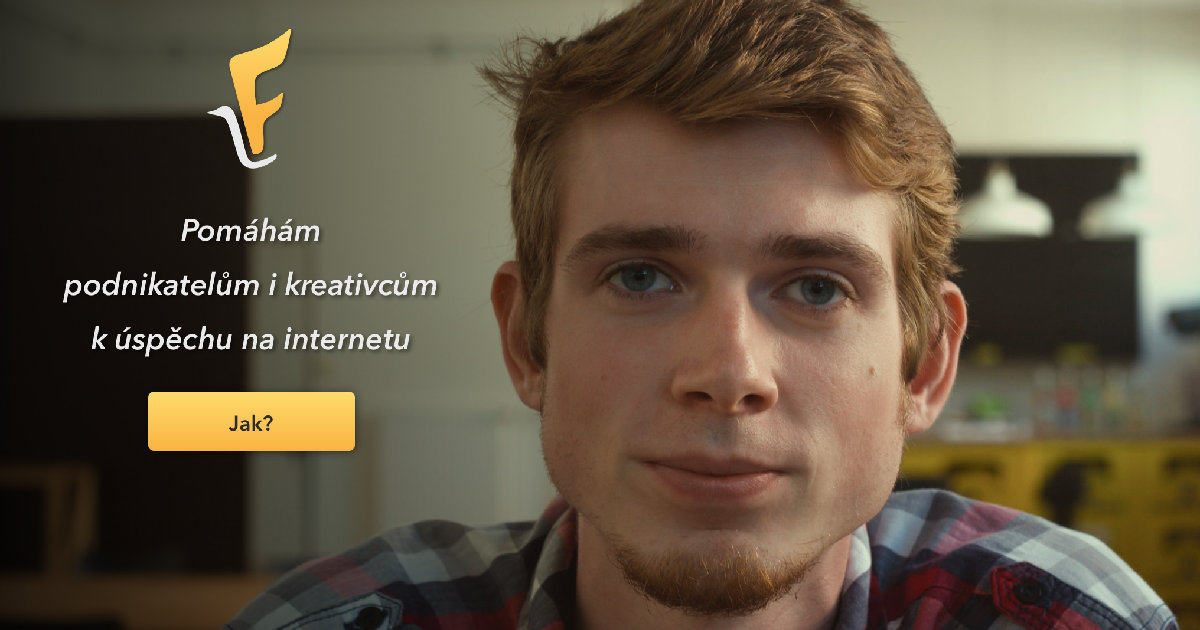
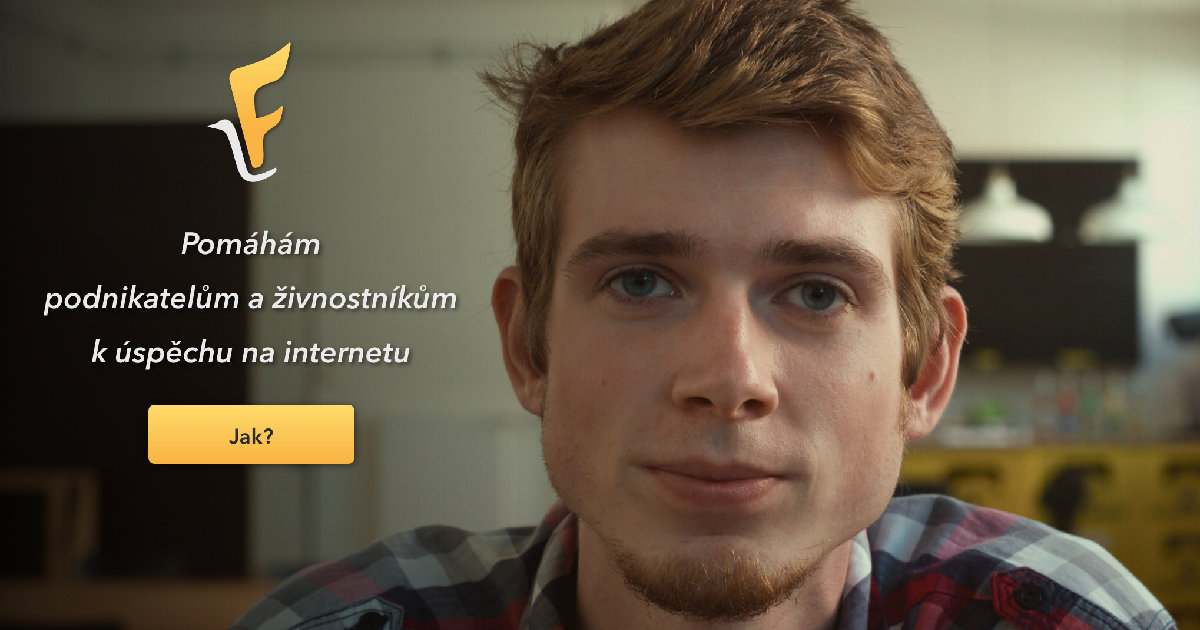
final-v2

diff --git a/index.html b/index.html
@@ -8,11 +8,11 @@
 
   <!-- seo meta -->
   <title>Lukáš Frei - Web designer a konzultant online marketingu</title>
-  <meta name="description" content="Pomáhám podnikatelům i kreativcům k úspěchu na internetu. Tvořím osobité webové stránky a pomáhám s online marketingem.">
+  <meta name="description" content="Pomáhám podnikatelům a živnostníkům k úspěchu na internetu. Tvořím osobité webové stránky a pomáhám s online marketingem.">
 
   <!-- open graph -->
   <meta property="og:title" content="Lukáš Frei - Web designer a konzultant online marketingu" />
-  <meta property="og:description" content="Pomáhám podnikatelům i kreativcům k úspěchu na internetu. Tvořím osobité webové stránky a pomáhám s online marketingem." />
+  <meta property="og:description" content="Pomáhám podnikatelům a živnostníkům k úspěchu na internetu. Tvořím osobité webové stránky a pomáhám s online marketingem." />
   <meta property="og:type" content="website" />
   <meta property="og:url" content="http://web-agent.cz" />
   <meta property="og:image" content="http://web-agent.cz/images/foto-hero-og.jpg" />
@@ -87,7 +87,7 @@
 
     <div class="title">
       <img src="images/logo.svg" alt="">
-      <h2>Pomáhám<br> podnikatelům i kreativcům<br> k úspěchu na internetu</h1>
+      <h2>Pomáhám<br> podnikatelům a živnostníkům<br> k úspěchu na internetu</h1>
       <a class="btn btn-uvod" href="#sluzby">Jak?</a>
     </div>
 
@@ -102,7 +102,7 @@
       <a href="#" class="sluzby-strategie">Online strategie</a>
     </div>
     <div id="sluzby-uvod">
-      <p><span>Jsem</span> <strong>webový designer a konzultant</strong> na volné noze. Specializuji se na tvorbu internetové identity pro podnikatele i kreativce. Tvořím <a href="#" class="sluzby-web">osobité weby</a> a pomáhám s <strong>online marketingem</strong>.</p>
+      <p><span>Jsem</span> <strong>webový designer a konzultant</strong> na volné noze. Specializuji se na tvorbu internetové identity pro podnikatele a živnostníky. Tvořím <a href="#" class="sluzby-web">osobité weby</a> a pomáhám s <strong>online marketingem</strong>.</p>
       <p><span>Věřím</span>, že pro efektivní prezentaci na internetu nepotřebujete nutně tým specialistů ani desetitisíce korun. Dokážu se <a class="sluzby-reseni" href="#reseni">přizpůsobit rozpočtu</a> a vytvořit webové stránky <strong>na základě šablony</strong> nebo navrhnout <strong>originální web</strong> podle potřeb vašeho podnikání.</p>
       <p><span>Dnes</span> už většinu z vás nepřekvapí, že mít hezký web nestačí. Je třeba se zvlášť zamyslet nad <strong>atraktivním obsahem</strong> a metodou, jak na web <strong>přivádět nové návštěvníky</strong>. Proto je nedílnou součástí mé práce poradenská činnost. Nejprve se budu dopodrobna zajímat o vaše podnikání a následně vypracuji <a href="#" class="sluzby-strategie">online strategii</a>, díky které dokážeme využít internet naplno.</p>
     </div>
